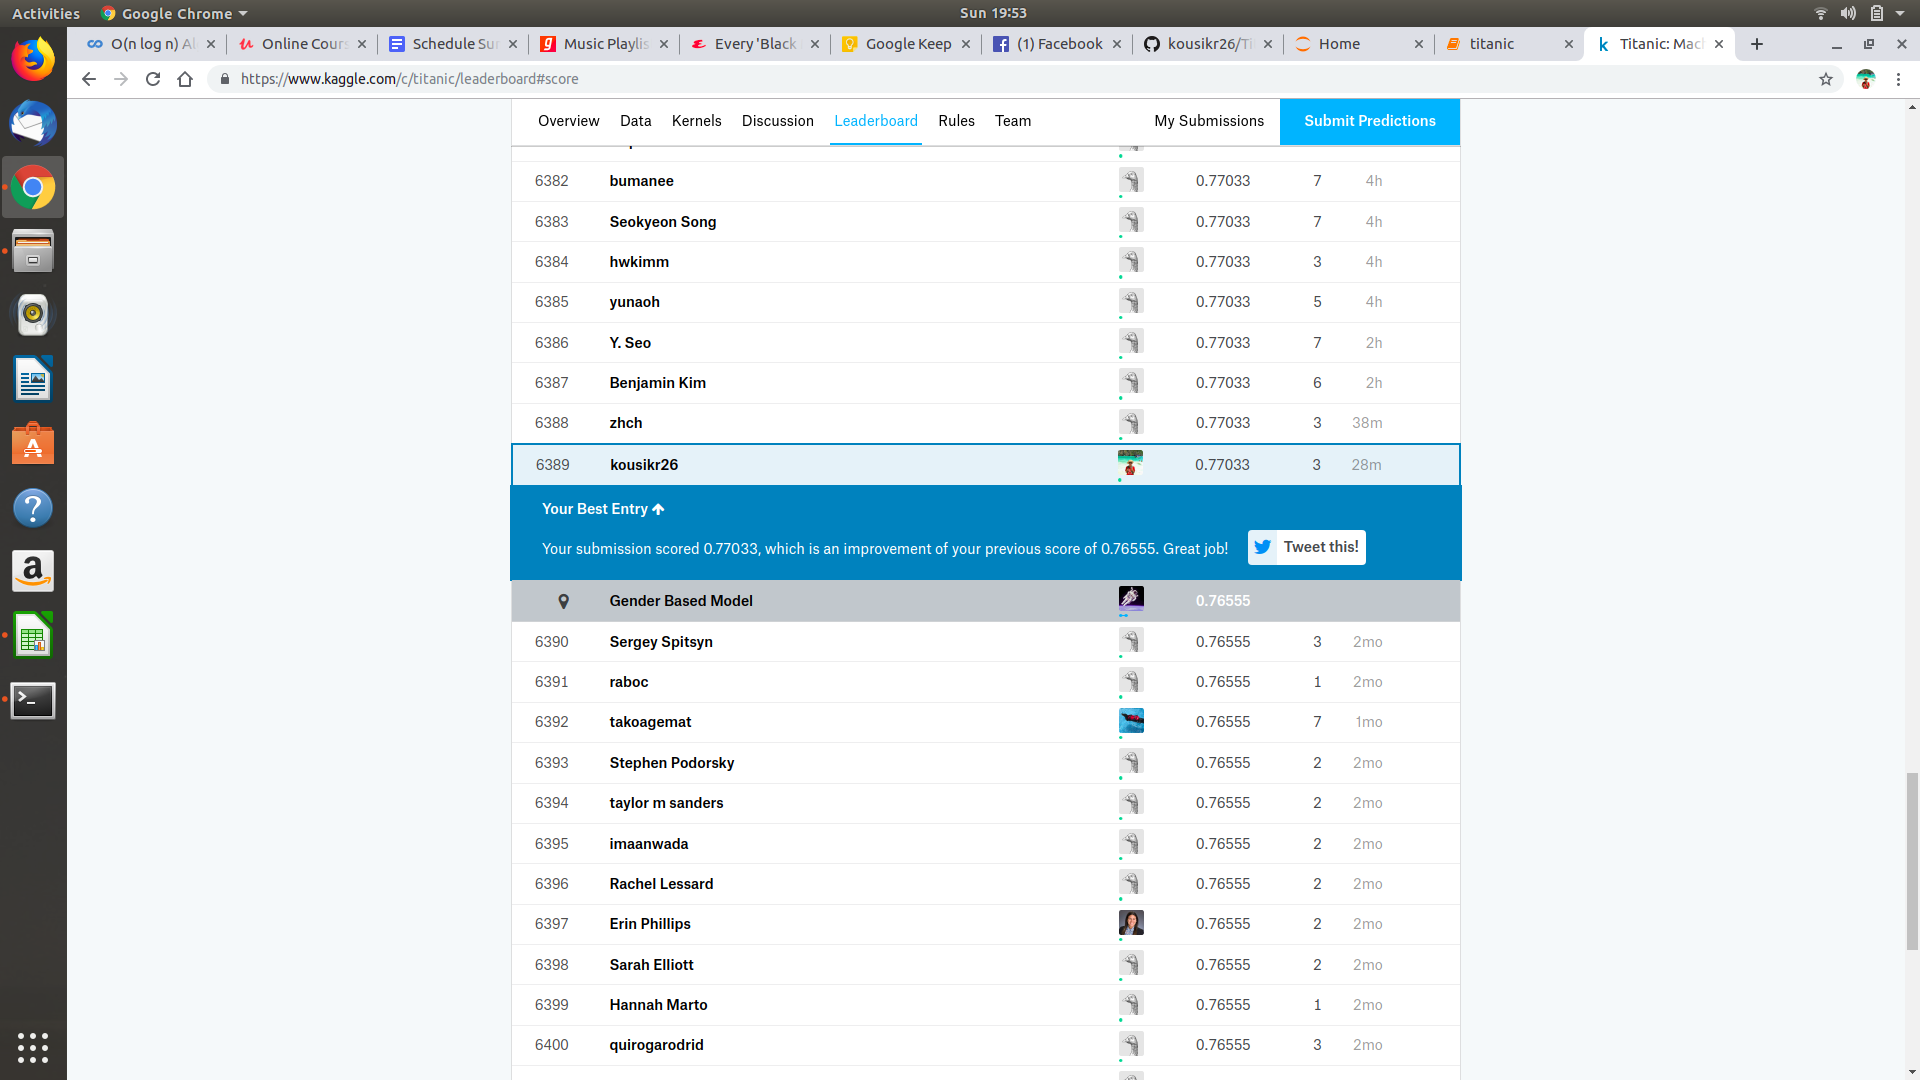
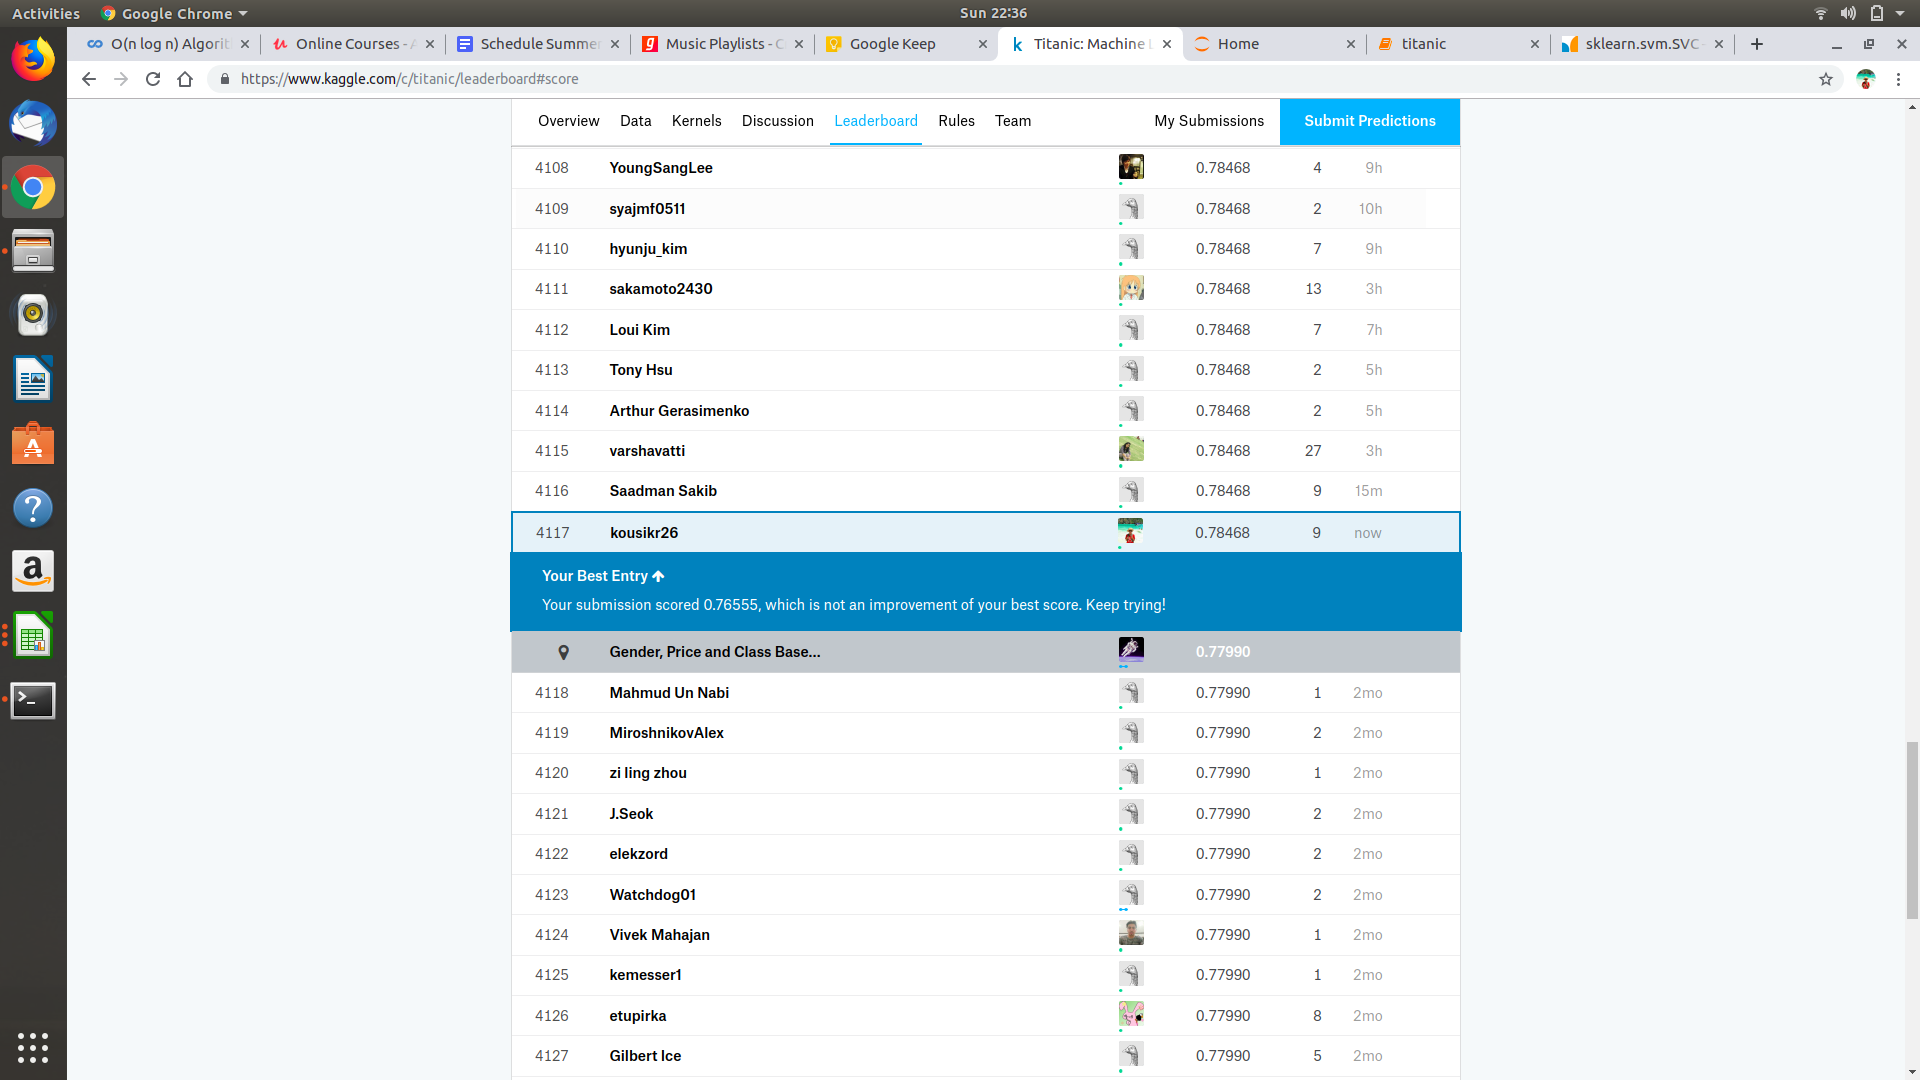
score updated

diff --git a/README.md b/README.md
@@ -10,6 +10,6 @@ Attempted models
 - Random forest
 
 
- Random forest was found to have highest accuracy(77.033% on test set)
+ Random forest was found to have highest accuracy(78.468% on test set)
 
 The explanation of code, eda and feature engineering is present as markdown in the notebook
